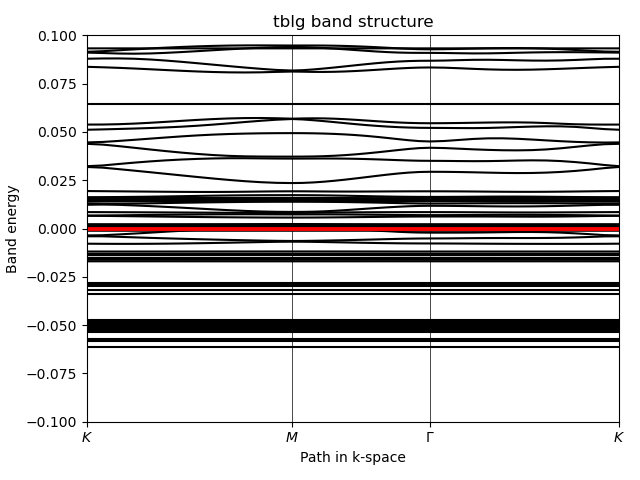
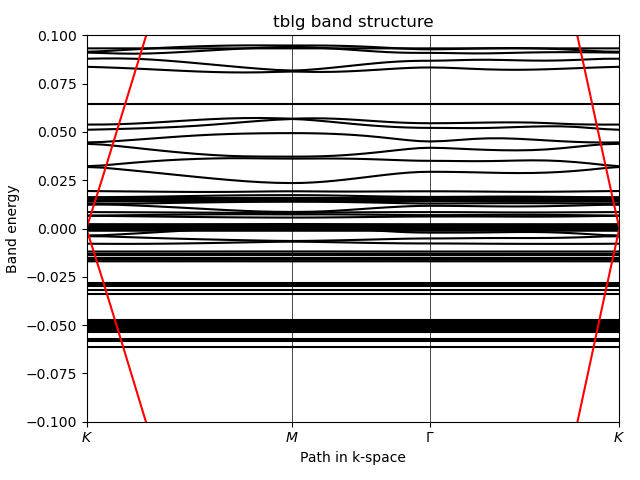
plotting

diff --git a/src/buckled_monolayerGraphene.py b/src/buckled_monolayerGraphene.py
@@ -10,7 +10,7 @@ import numpy as np
 import ase.io
 import matplotlib.pyplot as plt
 
-def plot_bands(colors,labels,all_evals,title='',figname=None):
+def plot_bands(colors,labels,all_evals,erange=1.0,title='',figname=None):
     fig, ax = plt.subplots()
     label=(r'$K$', r'$M$', r'$\Gamma $',r'$K$')
     # specify horizontal axis details
@@ -26,18 +26,23 @@ def plot_bands(colors,labels,all_evals,title='',figname=None):
     ax.set_title(title)
     ax.set_xlabel("Path in k-space")
     ax.set_ylabel("Band energy")
-    for i in range(len(all_evals)):
+    for i in range(np.shape(all_evals)[0]):
         evals = all_evals[i]
         nbands = np.shape(evals)[0]
         efermi = np.mean([evals[nbands//2,0],evals[(nbands-1)//2,0]])
         fermi_ind = nbands//2
         # plot first and second band
         for n in range(np.shape(evals)[0]):
-            ax.plot(k_dist,evals[n,:]-efermi,c=colors[i],label=labels[i])
+            if i==0:
+                ax.plot(k_dist,evals[n,:]-efermi,c=colors[i],label=labels[i])
+            else:
+                ax.plot(k_dist,evals[n,:]-efermi,c=colors[i])
+                
         
     # make an PDF figure of a plot
     fig.tight_layout()
-    ax.set_ylim(-0.1,0.1)
+    ax.legend()
+    ax.set_ylim(-erange,erange)
     fig.savefig(figname)
     
 if __name__=="__main__":
@@ -60,12 +65,14 @@ if __name__=="__main__":
     model_LC.set_solver(solve_dict)
     
     model_HC.solve_all(k_vec)
-    model_HC.solve_all(k_vec)
+    model_LC.solve_all(k_vec)
     
     evals_HC = model_HC.get_eigenvalues()
-    evals_LC = np.zeros_like(evals_HC) #model_LC.get_eigenvalues()
+    evals_LC = model_LC.get_eigenvalues()
 
-    title = "tblg band structure"
+    title = "buckled monolayer band structure"
     colors=['black','red']
     labels=['high Corr','low Corr']
-    plot_bands(colors,labels,(evals_HC,evals_LC),title=title,figname='buckled_monolayers.png')
+    plot_bands(colors,labels,[evals_HC],title=title,erange=0.1,figname='buckled_monolayersHC.png')
+    plot_bands(colors,labels,[evals_LC],title=title,erange=1.0,figname='buckled_monolayersLC.png')
+

diff --git a/src/solverUtils.py b/src/solverUtils.py
@@ -189,7 +189,6 @@ class solver(object):
             if not self._model.solve_dict['cupy']:
 
                 number_of_cpu = joblib.cpu_count()
-                print(number_of_cpu)
                 output = Parallel(n_jobs=number_of_cpu)(delayed(band_func)(i) for i in range(nkp))
                 for i in range(nkp):
                     ret_eval[:,i] = output[i][0]
